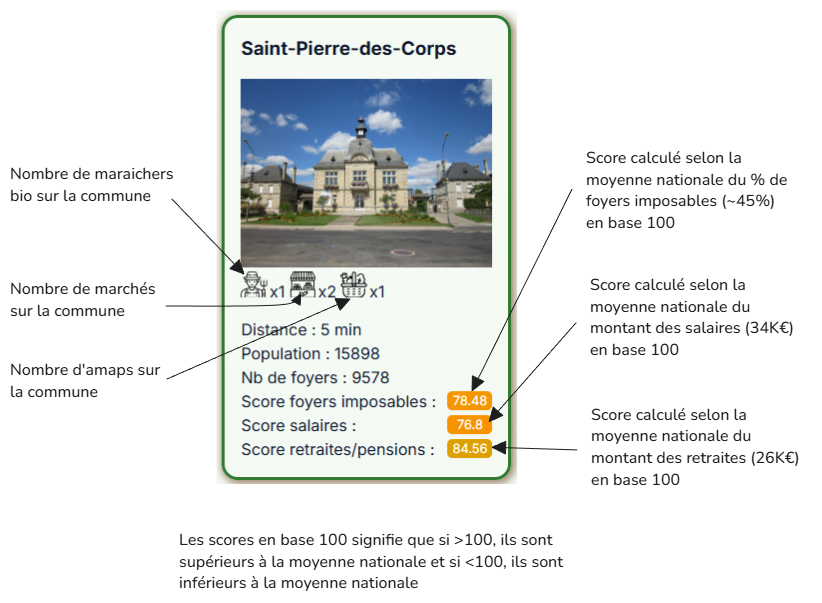
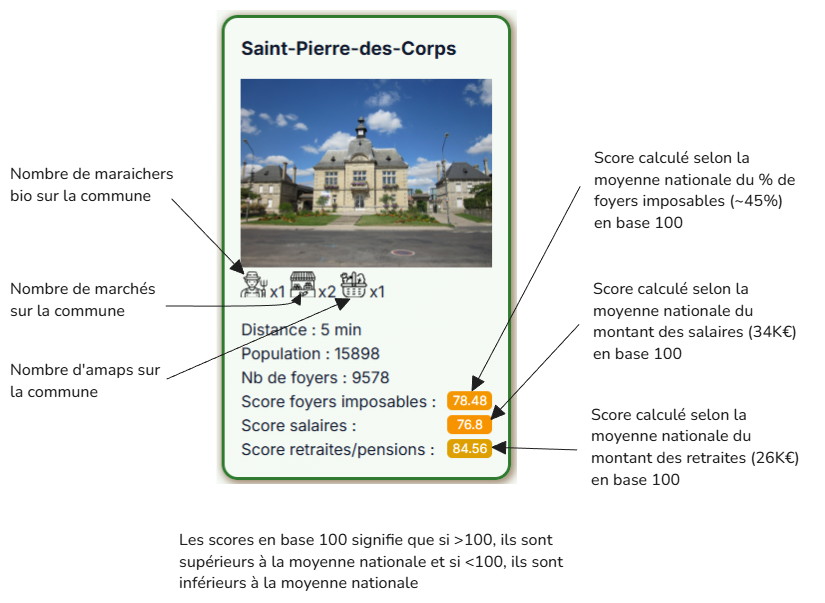
feat: annuaire

diff --git a/resources/css/style.css b/resources/css/style.css
@@ -168,6 +168,64 @@ footer{margin-top:40px;padding:28px 0;color:var(--muted);font-size:14px}
 .recap-scoring{width: 60%;padding: 18px}
 .recap-scoring .parameter{display: flex;justify-content:none; align-items: center;font-size: large;font-weight: 600;}
 
+.table-container {
+    overflow-x: auto;
+    margin: 2rem 0;
+}
+
+.modern-table {
+    width: 100%;
+    border-collapse: collapse;
+    background: #fff;
+    border-radius: 12px;
+    overflow: hidden;
+    box-shadow: 0 6px 20px rgba(0,0,0,.08);
+    font-size: 15px;
+}
+
+.modern-table thead {
+    background: #2e7d32;
+    color: #fff;
+}
+
+.modern-table th {
+    text-align: left;
+    padding: 16px 20px;
+    font-weight: 600;
+    letter-spacing: .3px;
+}
+
+.modern-table td {
+    padding: 16px 20px;
+    border-bottom: 1px solid #ececec;
+    color: #444;
+    vertical-align: middle;
+}
+
+.modern-table tbody tr:last-child td {
+    border-bottom: none;
+}
+
+.modern-table tbody tr:hover {
+    background: #f5fbf6;
+    transition: background .2s ease;
+}
+
+.modern-table strong {
+    color: #2e7d32;
+}
+
+@media (max-width: 768px) {
+    .modern-table {
+        font-size: 14px;
+    }
+
+    .modern-table th,
+    .modern-table td {
+        padding: 12px 14px;
+    }
+}
+
 /* .pdf{width: 900px;}
 .pdf header{display: none;} */
 

diff --git a/resources/views/score.blade.php b/resources/views/score.blade.php
@@ -103,16 +103,26 @@ $images[$page['title']] = data_get($page, 'original.source');
 
       <!-- SCORE -->
       <aside class="card-aside">
-        <h3>Score global</h3>
+        <h3>Scores climatiques</h3>
 
         <div style="font-size:48px;font-weight:900;color:var(--accent)">
           {{ $datas->weather->globalScore ?? '--' }}
         </div>
 
-        <div style="font-size:14px;color:var(--muted)">Score d’opportunité</div>
+        <div style="font-size:14px;color:var(--muted)">Score climatique</div>
 
         <p style="color:var(--muted)">
           {{ $datas->weather->globalCommentary }}
+        </p>
+
+        <div style="font-size:48px;font-weight:900;color:var(--accent)">
+          {{ $datas->weather->confidenceScore ?? '--' }}
+        </div>
+
+        <div style="font-size:14px;color:var(--muted)">Risque climatique</div>
+
+        <p style="color:var(--muted)">
+          ⚠️ {{ $datas->weather->globalConfidence }}
         </p>
       </aside>
     </section>
@@ -124,7 +134,7 @@ $images[$page['title']] = data_get($page, 'original.source');
         <h2>Informations sur les fiches communes</h2>
         <img src="/img/explain_commune.excalidraw.png" alt="">
       </dialog>
-      <p>La population située à 10 minutes en voiture de votre emplacement s'élève à {{
+      <p>La population totale située à 10 minutes en voiture de votre emplacement s'élève à {{
         $datas->scoring->population_totale }} personnes.</p>
       <div class="population">
         @foreach ($datas->cities as $key => $city)
@@ -470,19 +480,97 @@ $images[$page['title']] = data_get($page, 'original.source');
       <p>
         {!! nl2br(e($datas->weather->commentaries)) !!}
       </p>
-      <div>
+      {{-- <div>
         <div style="font-size: large; font-weight:600">
           <div>{{ $datas->weather->globalCommentary }}({{ $datas->weather->globalScore }}/100)</div>
         </div>
         <div style="font-size: large; font-weight:600">
           <div>{{ $datas->weather->globalConfidence }}({{ $datas->weather->confidenceScore }}/100)</div>
         </div>
-      </div>
+      </div> --}}
       <div class="chart-container">
         <h2>Données climatiques</h2>
         <button onclick="chart.resetZoom()">Dézoomer</button>
         <canvas id="climateChart"></canvas>
       </div>
+    </section>
+    <section>
+      <h2>3 - Annuaire </h2>
+      @foreach ($datas->cities as $key => $city)
+        @if(count($city->nearby_organic_vegetable_farms) || count($city->amap) || count($city->marketplaces))
+        <h3>{{ $city->name }}</h3>
+          @if(count($city->nearby_organic_vegetable_farms))
+            <h4>Liste des fermes</h4>
+            <div class="table-container">
+              <table class="modern-table">
+                <thead>
+                  <tr>
+                    <th>Nom</th>
+                    <th>Adresse</th>
+                    <th>Téléphone</th>
+                  </tr>
+                </thead>
+                <tbody>
+                  @foreach ($city->nearby_organic_vegetable_farms[0] as $farm)
+                    <tr>
+                      <td>{{ $farm->name_annuaire ?? $farm->name }}</td>
+                      <td>🏠 {{ $farm->address1 }} - {{ $farm->zipcode1 }} {{ $farm->city1 }}</td>
+                      <td>☎️ {{ $farm->phone1 ?? $farm->phone2 }}</td>
+                    </tr>
+                  @endforeach 
+                </tbody>              
+              </table>
+            </div>
+            
+          @endif
+          @if(count($city->amap))
+            <h4>Liste des amaps</h4> 
+            <div class="table-container">
+              <table class="modern-table">
+                <thead>
+                  <tr>
+                    <th>Nom</th>
+                    <th>Mail</th>
+                    <th>Infos</th>
+                  </tr>
+                </thead>
+                <tbody>
+                  @foreach ($city->amap[0] as $amap)
+                    <tr>
+                      <td>{{ $amap->name }}</td>
+                      <td>📧 {{ $amap->mail ?? '' }}</td>
+                      <td>ℹ️ {{ $amap->infos ?? '' }}</td>
+                    </tr>
+                  @endforeach 
+                </tbody>              
+              </table>
+            </div>
+            
+          @endif
+          @if(count($city->marketplaces))
+            <h4>Liste des marchés</h4>
+            <div class="table-container">
+              <table class="modern-table">
+                <thead>
+                  <tr>
+                    <th>Nom</th>
+                    <th>Horaires</th>
+                  </tr>
+                </thead>
+                <tbody>
+                  @foreach ($city->marketplaces[0] as $marketplace)
+                    <tr>
+                      <td>{{ $marketplace->name }}</td>
+                      <td>ℹ️ {{ $marketplace->horaires }}</td>
+                    </tr>
+                  @endforeach
+                </tbody> 
+              </table>
+            </div> 
+          @endif
+        <br style="page-break-after: always;" />
+        @endif
+      @endforeach
     </section>
     <div>
       <footer>